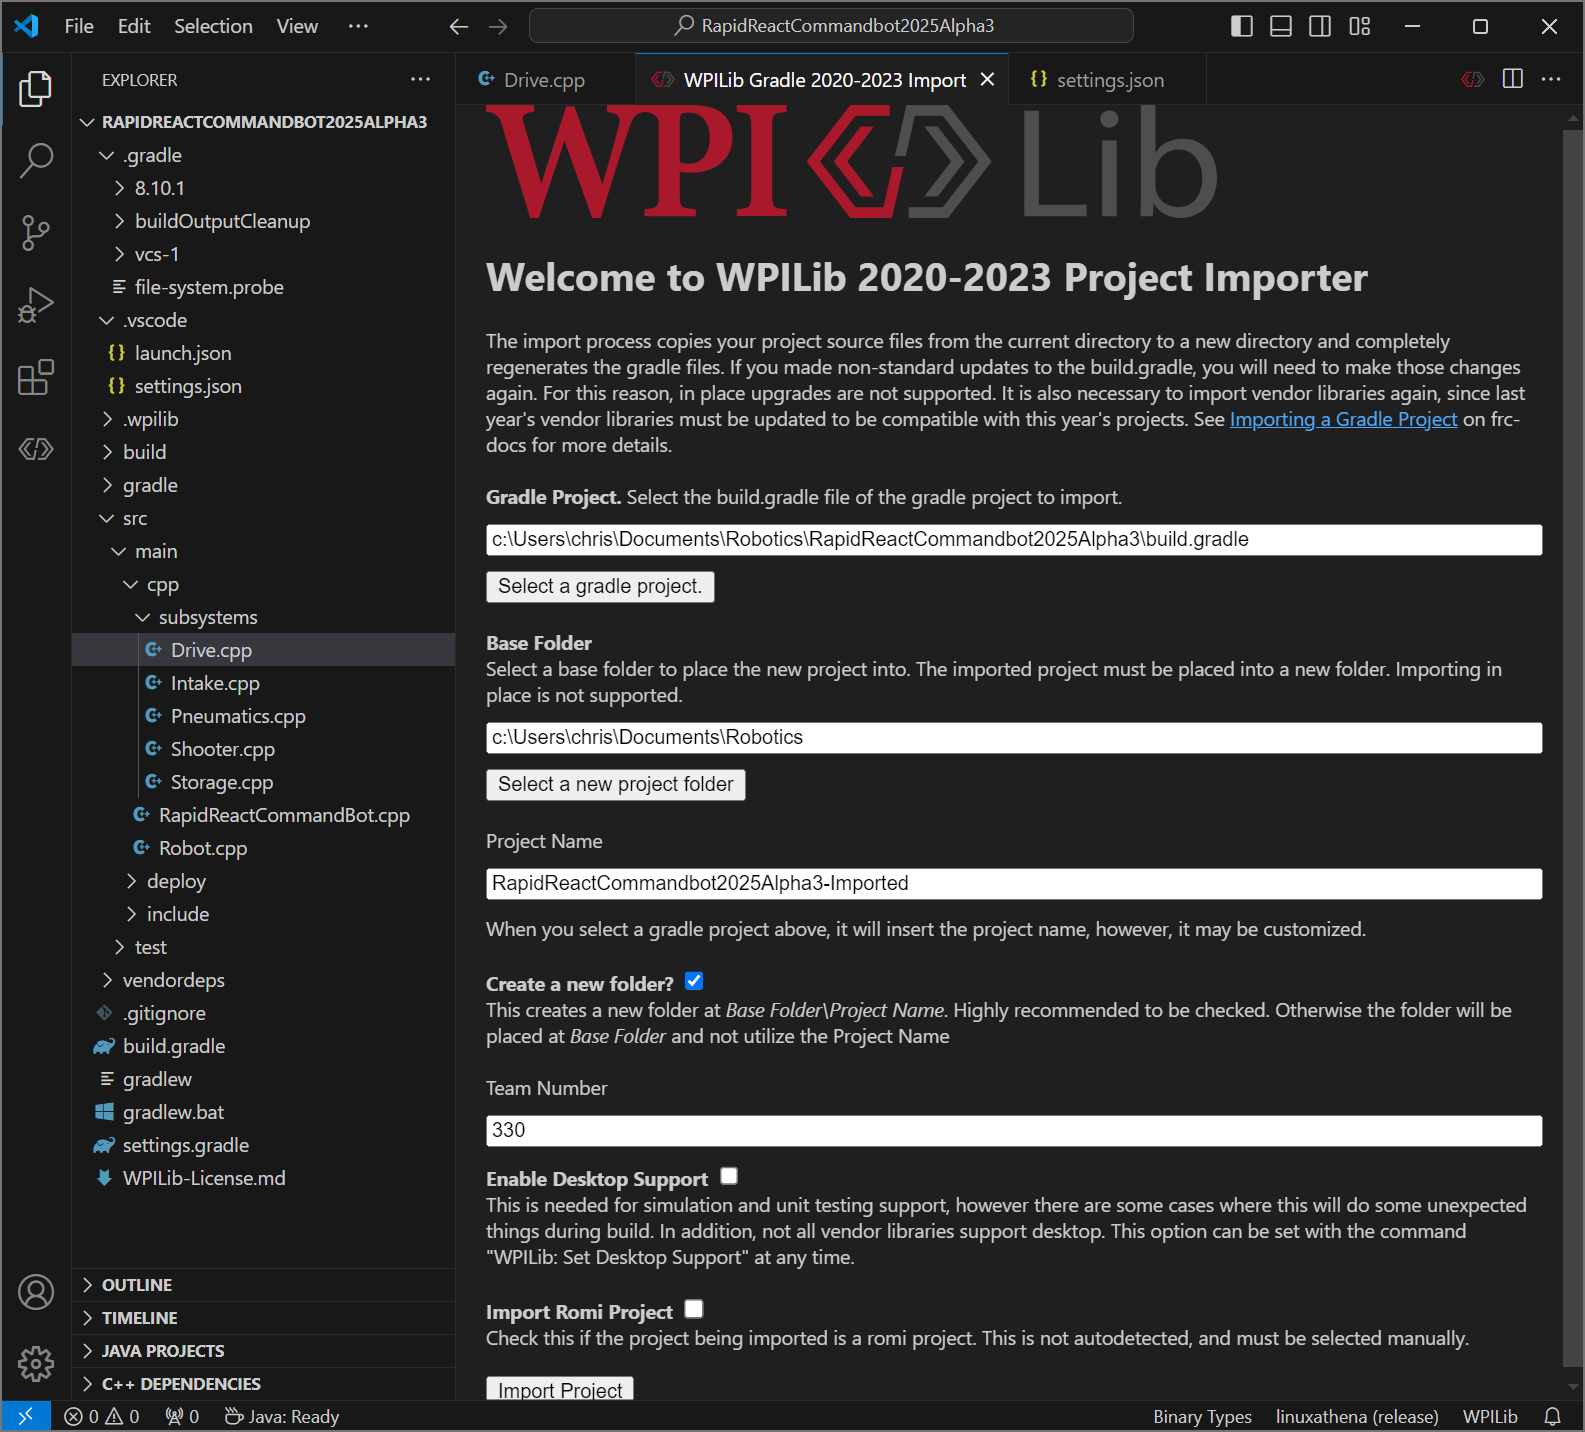
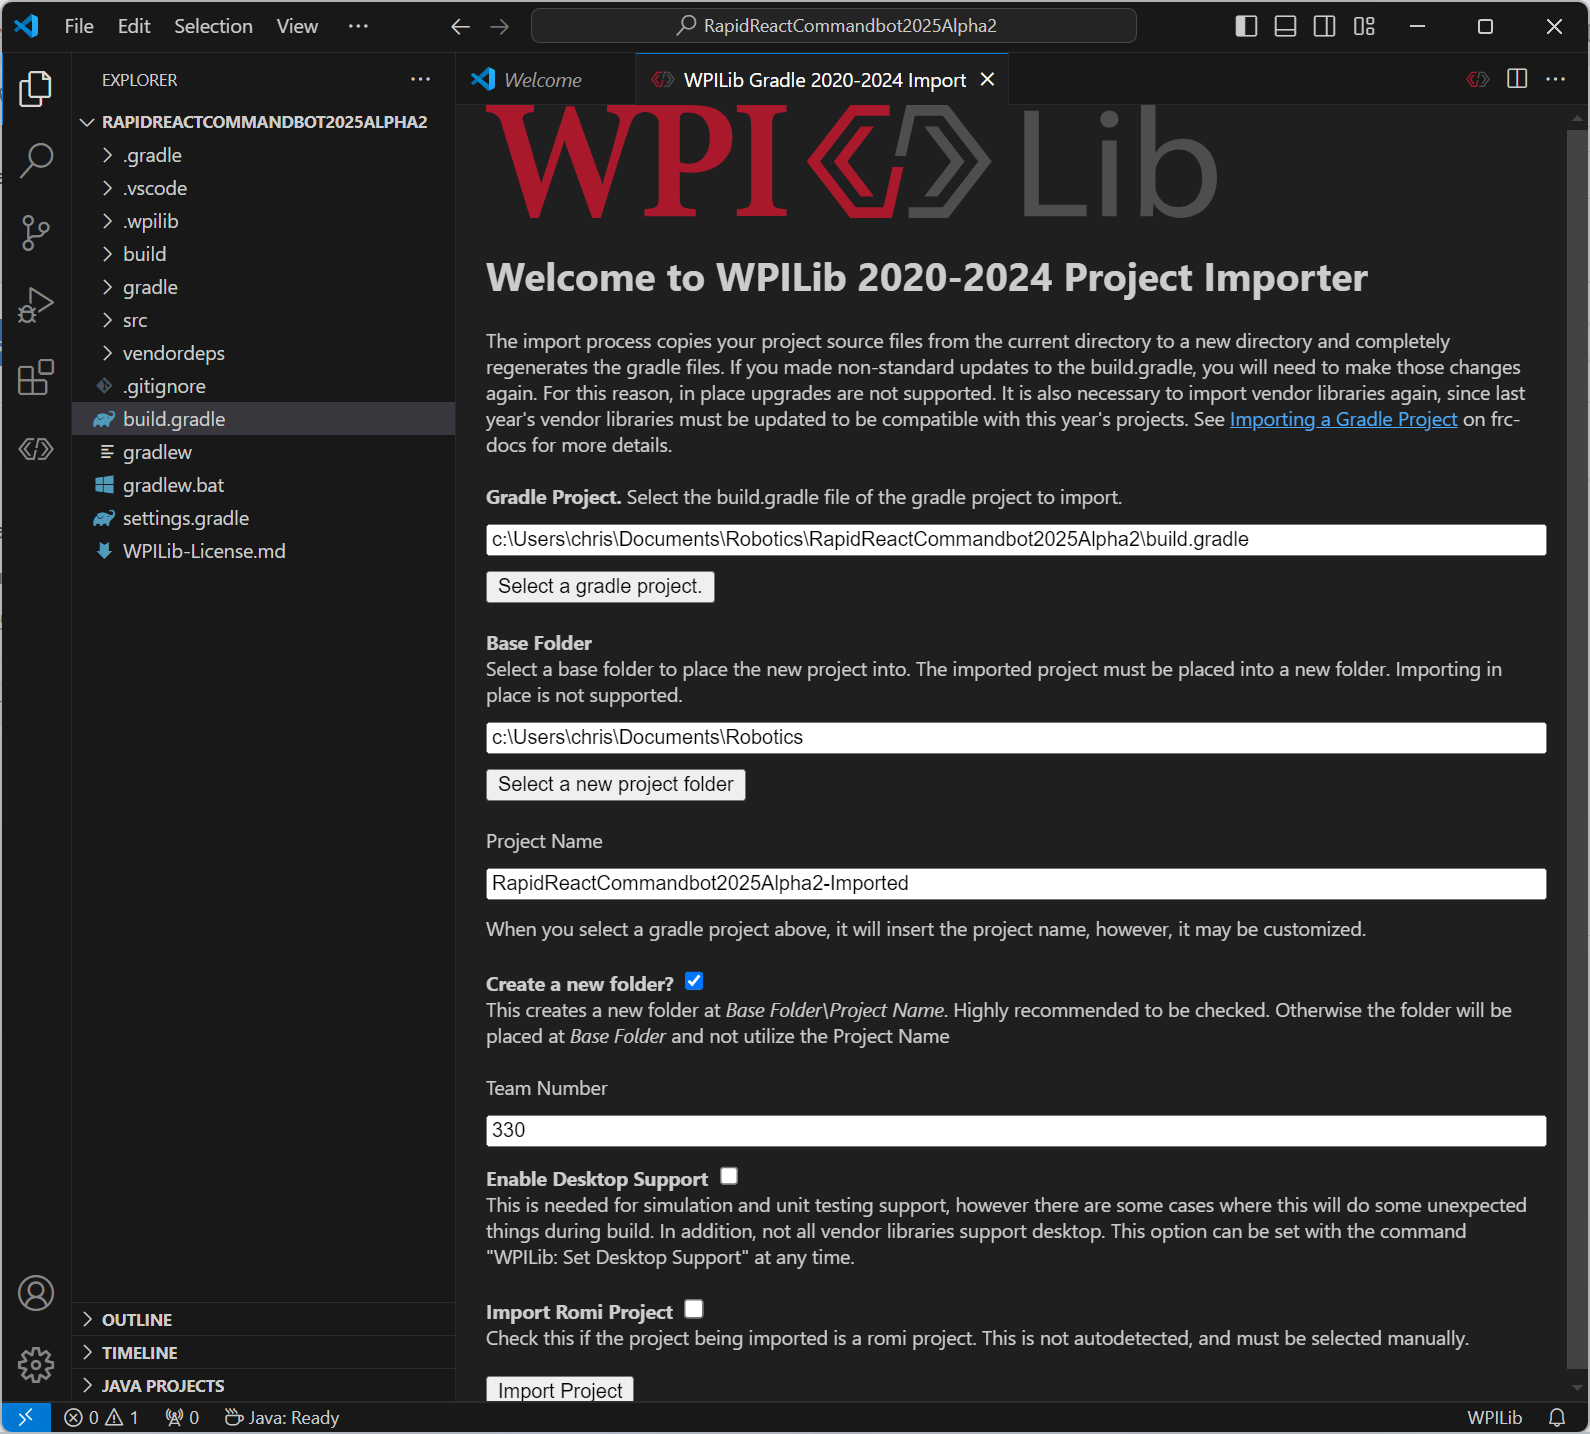
Update importer pictures and year

diff --git a/source/docs/software/vscode-overview/importing-last-years-robot-code.rst b/source/docs/software/vscode-overview/importing-last-years-robot-code.rst
@@ -6,7 +6,7 @@ Due to changes in the project, it is necessary to update the build files for a p
 
 To make it easy for teams to import previous years gradle projects into the current year's framework, WPILib includes a wizard for importing previous years projects into VS Code. This will generate the necessary gradle components and load the project into VS Code. In place upgrades are not supported.
 
-.. important:: The import process copies your project source files from the current directory to a new directory and completely regenerates the gradle files. Additionally, it updates the code for the package changes made in 2023. If you made non-standard updates to the ``build.gradle``, you will need to make those changes again. For this reason, in place upgrades are not supported. It is also necessary to import vendor libraries again, since last year's vendor libraries must be updated to be compatible with this year's projects.
+.. important:: The import process copies your project source files from the current directory to a new directory and completely regenerates the gradle files. Additionally, it updates the code for the package changes made in 2024. If you made non-standard updates to the ``build.gradle``, you will need to make those changes again. For this reason, in place upgrades are not supported. It is also necessary to import vendor libraries again, since last year's vendor libraries must be updated to be compatible with this year's projects.
 
 ### Launching the Import Wizard
 
@@ -14,7 +14,7 @@ To make it easy for teams to import previous years gradle projects into the curr
 
 When you open a previous year's project, you will be prompted to import that project. Click :guilabel:`yes`.
 
-Alternately, you can chose to import it from the menu. Press :kbd:`Ctrl+Shift+P` and type "WPILib" or click the WPILib icon to locate the WPILib commands. Begin typing "Import a WPILib 2020-2023 Gradle project" and select it from the dropdown as shown below.
+Alternately, you can chose to import it from the menu. Press :kbd:`Ctrl+Shift+P` and type "WPILib" or click the WPILib icon to locate the WPILib commands. Begin typing "Import a WPILib 2020-2024 Gradle project" and select it from the dropdown as shown below.
 
 .. image:: images/importing-previous-project/ImportGradleMenu.png
 
